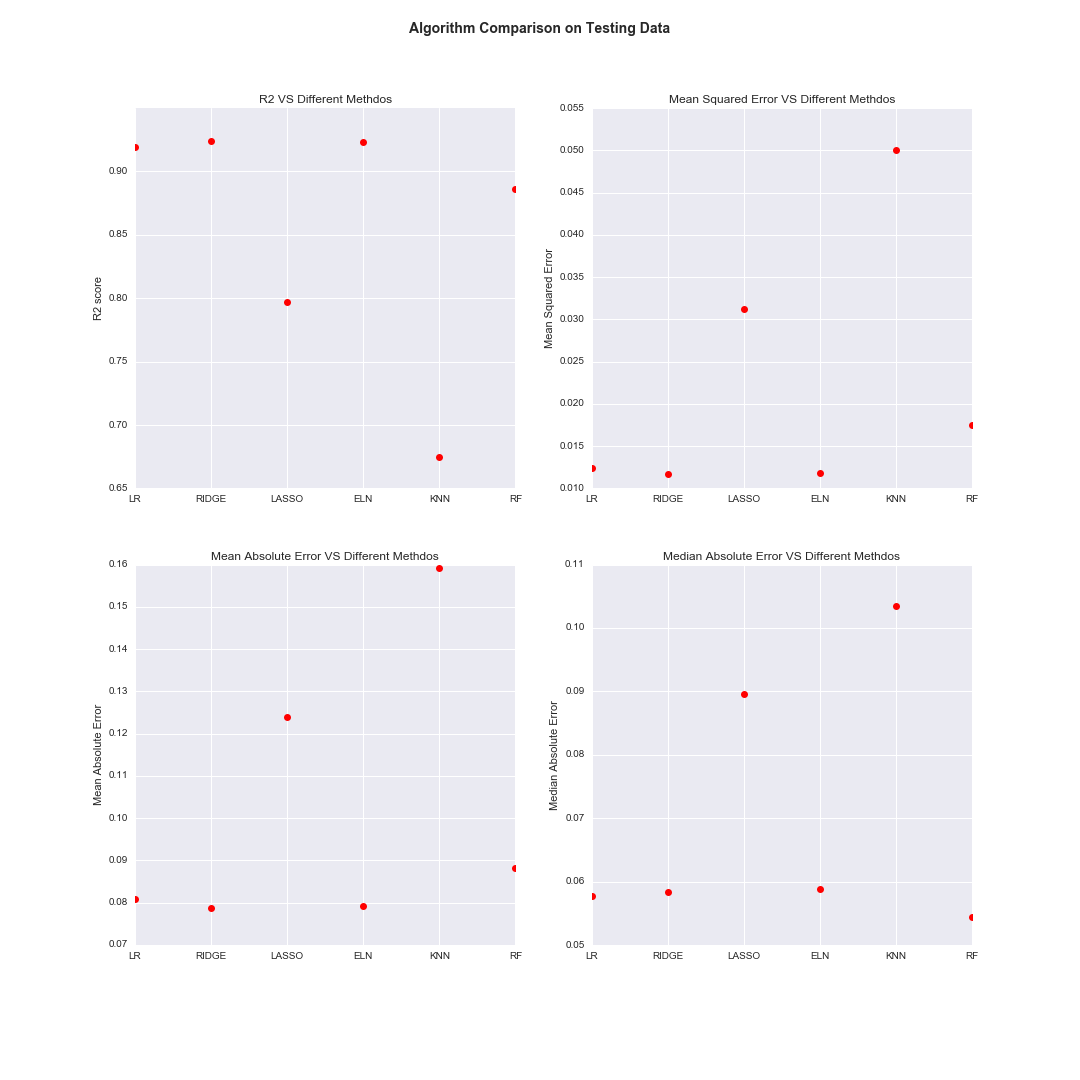
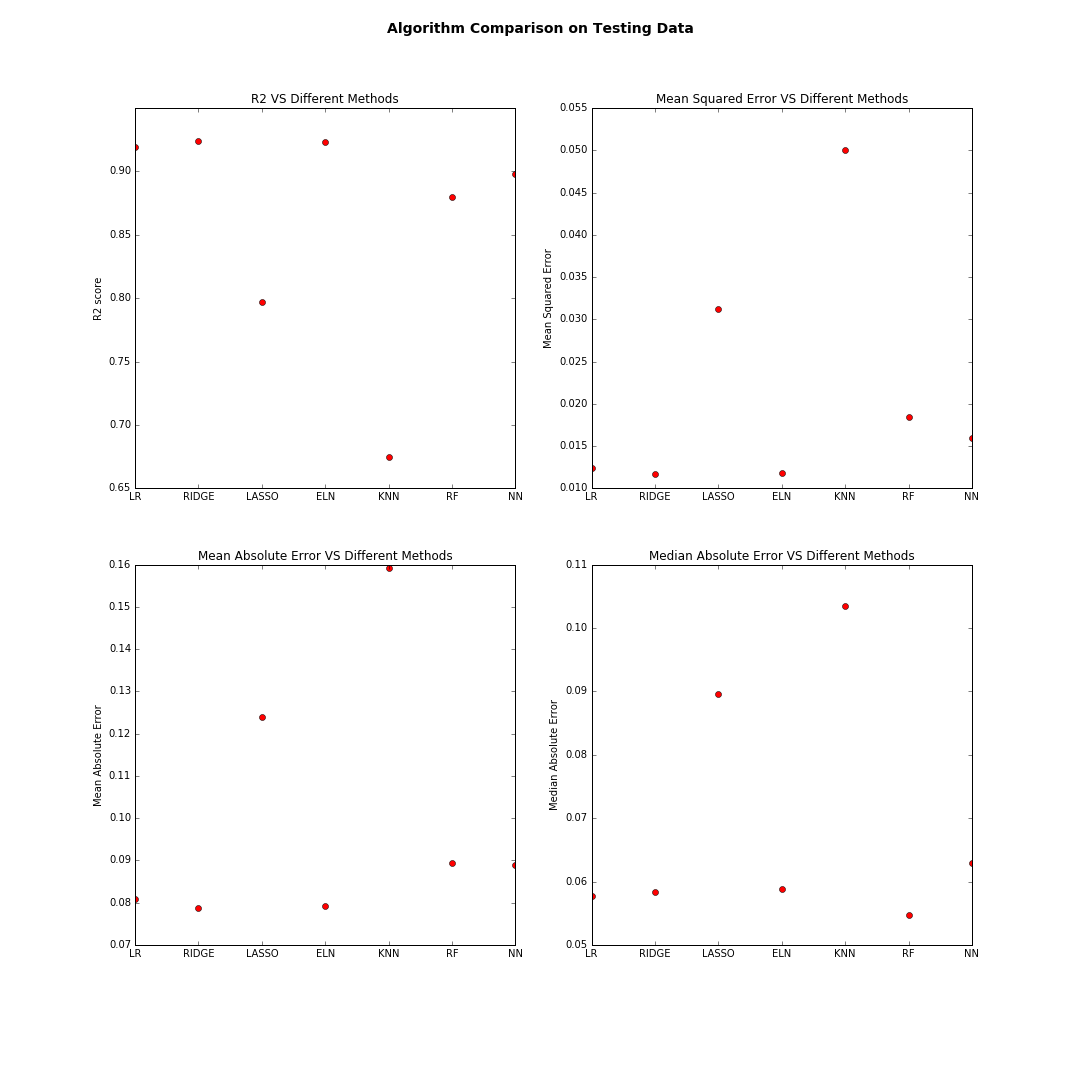
Good push!

diff --git a/2_methods.py b/2_methods.py
@@ -2,31 +2,19 @@
 import pandas as pd
 import numpy as np
 
-from subprocess import check_output
-import sys
-import scipy
 import matplotlib.pyplot as plt
-import seaborn as sns
 
 import warnings
 warnings.filterwarnings('ignore')
 from IPython import get_ipython
 get_ipython().run_line_magic('matplotlib', 'inline')
 
-import sklearn
-from sklearn import ensemble, tree, linear_model
-from sklearn.model_selection import train_test_split, cross_val_score
-from sklearn.metrics import r2_score, mean_squared_error
-from sklearn.utils import shuffle
 
-from sklearn import linear_model
 from sklearn.linear_model import LinearRegression
 from sklearn.linear_model import Lasso
 from sklearn.linear_model import Ridge
 from sklearn.linear_model import ElasticNet
 from sklearn.neighbors import KNeighborsRegressor
-from sklearn.tree import DecisionTreeRegressor
-from sklearn.metrics import accuracy_score
 from sklearn.ensemble import RandomForestRegressor
 # Split-out validation dataset
 from sklearn import model_selection
@@ -90,6 +78,8 @@ test_results_mse=[]
 test_results_meanae=[]
 test_results_medianae=[]
 
+
+
 names = []
 for name, model in models:
     ## Perform Cross-Validation on X_train, Y_train
@@ -121,7 +111,24 @@ for name, model in models:
         print ("%s mean_squared_error: %0.3f" % (name, mse))
         print ("%s mean_absolute_error: %0.3f" % (name, meanae))
         print ("%s median_absolute_error: %0.3f" % (name, medianae))    
-    
+        
+        
+############ Add Neraul Network results from 3_NeuralNetwork.py to plot #######
+        
+#r2_score: 0.898
+#mean_squared_error: 0.016
+#mean_absolute_error: 0.089
+#median_absolute_error: 0.063
+        
+names.append('NN')
+test_results_r2.append(0.898)
+test_results_mse.append(0.016)
+test_results_meanae.append(0.089)
+test_results_medianae.append(0.063)
+
+        
+########################## Save and Plot ######################################
+        
 if (Algorithms_compare):
 
 	## Plot and Save
@@ -140,25 +147,25 @@ if (Algorithms_compare):
 	fig_test_results = plt.figure()
 	fig_test_results.suptitle('Algorithm Comparison on Testing Data', fontsize=14, fontweight='bold')
 	ax1 = fig_test_results.add_subplot(221)
-	plt.title('R2 VS Different Methdos')
+	plt.title('R2 VS Different Methods')
 	plt.plot(test_results_r2, 'ro')
 	plt.ylabel('R2 score')
 	ax1.set_xticklabels(names)
 
 	ax2 = fig_test_results.add_subplot(222)
-	plt.title('Mean Squared Error VS Different Methdos')
+	plt.title('Mean Squared Error VS Different Methods')
 	plt.plot(test_results_mse, 'ro')
 	plt.ylabel('Mean Squared Error')
 	ax2.set_xticklabels(names)
 
 	ax3 = fig_test_results.add_subplot(223)
-	plt.title('Mean Absolute Error VS Different Methdos')
+	plt.title('Mean Absolute Error VS Different Methods')
 	plt.plot(test_results_meanae, 'ro')
 	plt.ylabel('Mean Absolute Error')
 	ax3.set_xticklabels(names)
 
 	ax4 = fig_test_results.add_subplot(224)
-	plt.title('Median Absolute Error VS Different Methdos')
+	plt.title('Median Absolute Error VS Different Methods')
 	plt.plot(test_results_medianae, 'ro')
 	plt.ylabel('Median Absolute Error')
 	ax4.set_xticklabels(names)
@@ -248,7 +255,7 @@ if (KNN_detail):
 	plt.axis('tight')
 
 	ax4 = fig3.add_subplot(122)
-	ax4.plot(KNN_results_p,'ro', color="b")
+	ax4.plot(KNN_results_p,'ro',color="b")
 	ax4.legend(loc="best")
 	ax4.set_xticklabels(['manhattan_distance','','','','','euclidean_distance'])
 	plt.xlabel('Distance Metrics')
@@ -339,7 +346,4 @@ if (RF_detail):
 
 
 #####
-r2_score: 0.898
-mean_squared_error: 0.016
-mean_absolute_error: 0.089
-median_absolute_error: 0.063
+
